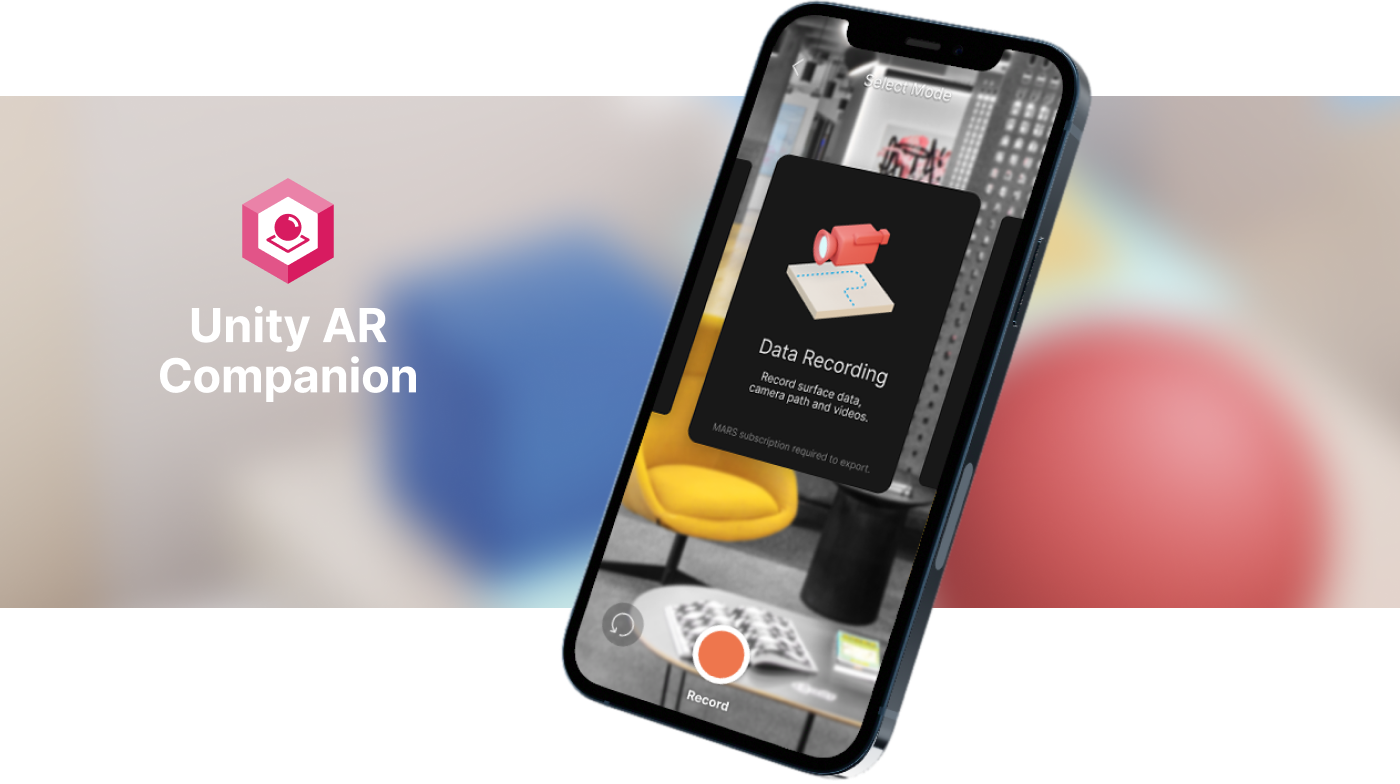
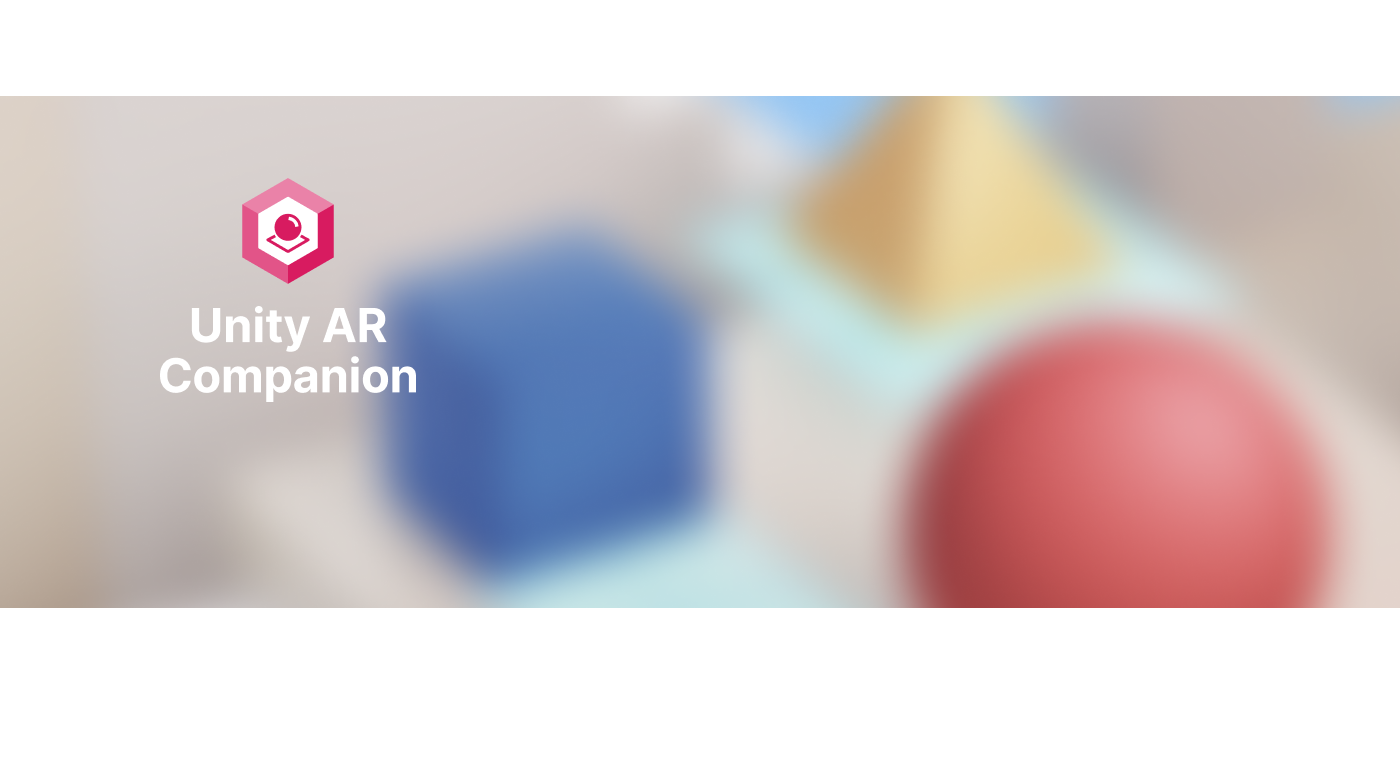
update

Changed region(s): [[0.3993, 0.0, 0.7986, 1.0]]

diff --git a/css/style-2022.css b/css/style-2022.css
@@ -387,3 +387,24 @@ a.special:hover {
   flex-shrink: 0;
   margin: 64px 48px 32px;
 }
+
+.mca-iphone {
+  position: absolute;
+  top: 0;
+  left: 0;
+  animation: IphoneIn 1s;
+}
+
+@keyframes IphoneIn {
+  0% {
+    opacity: 0;
+    transform: translate(0, 25%);
+  }
+  50% {
+    opacity: 1;
+  }
+  100% {
+    opacity: 1;
+    transform: translate(0, 0);
+  }
+}

diff --git a/unity-1.html b/unity-1.html
@@ -18,6 +18,9 @@ title: Du Hoang
       <div class="grid single">
         <div class="cell">
             <img src="img/MCA-header.png" />
+            <div class="mca-iphone">
+                    <img src="img/MCA-iphone.png" />
+            </div>
         </div>
       </div>
       <div class="text">